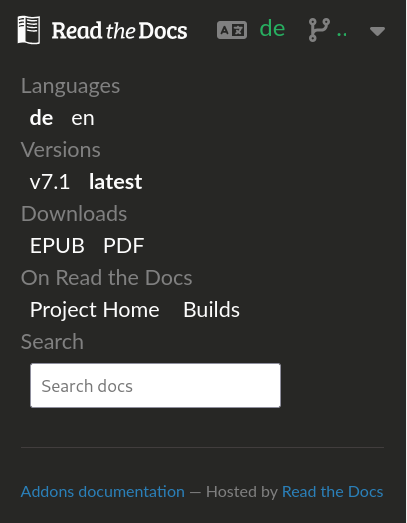
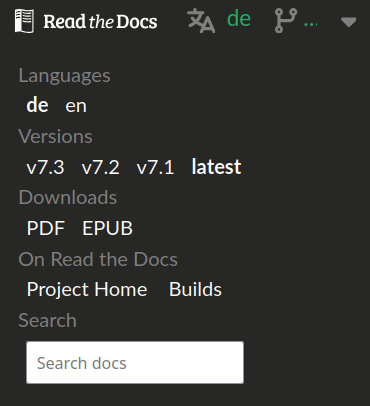
new pic for flyout menue

diff --git a/source/index.rst b/source/index.rst
@@ -48,7 +48,7 @@ Informationen zum Telefon-Support gibt es auf unserer Projektseite `<https://www
 
    Suchst Du die Dokumentation zur Version linuxmuster.net 7.3 oder die Möglichkeit, unsere Dokumentation herunterzuladen?
 
-Dann schaue in die unten recht angezeigte - zusätzliche - Menüleiste.
+Dann schaue in die unten rechts angezeigte - zusätzliche - Menüleiste.
 
 .. figure:: media/01_intro_read-the-docs-closed.png
    :align: center
